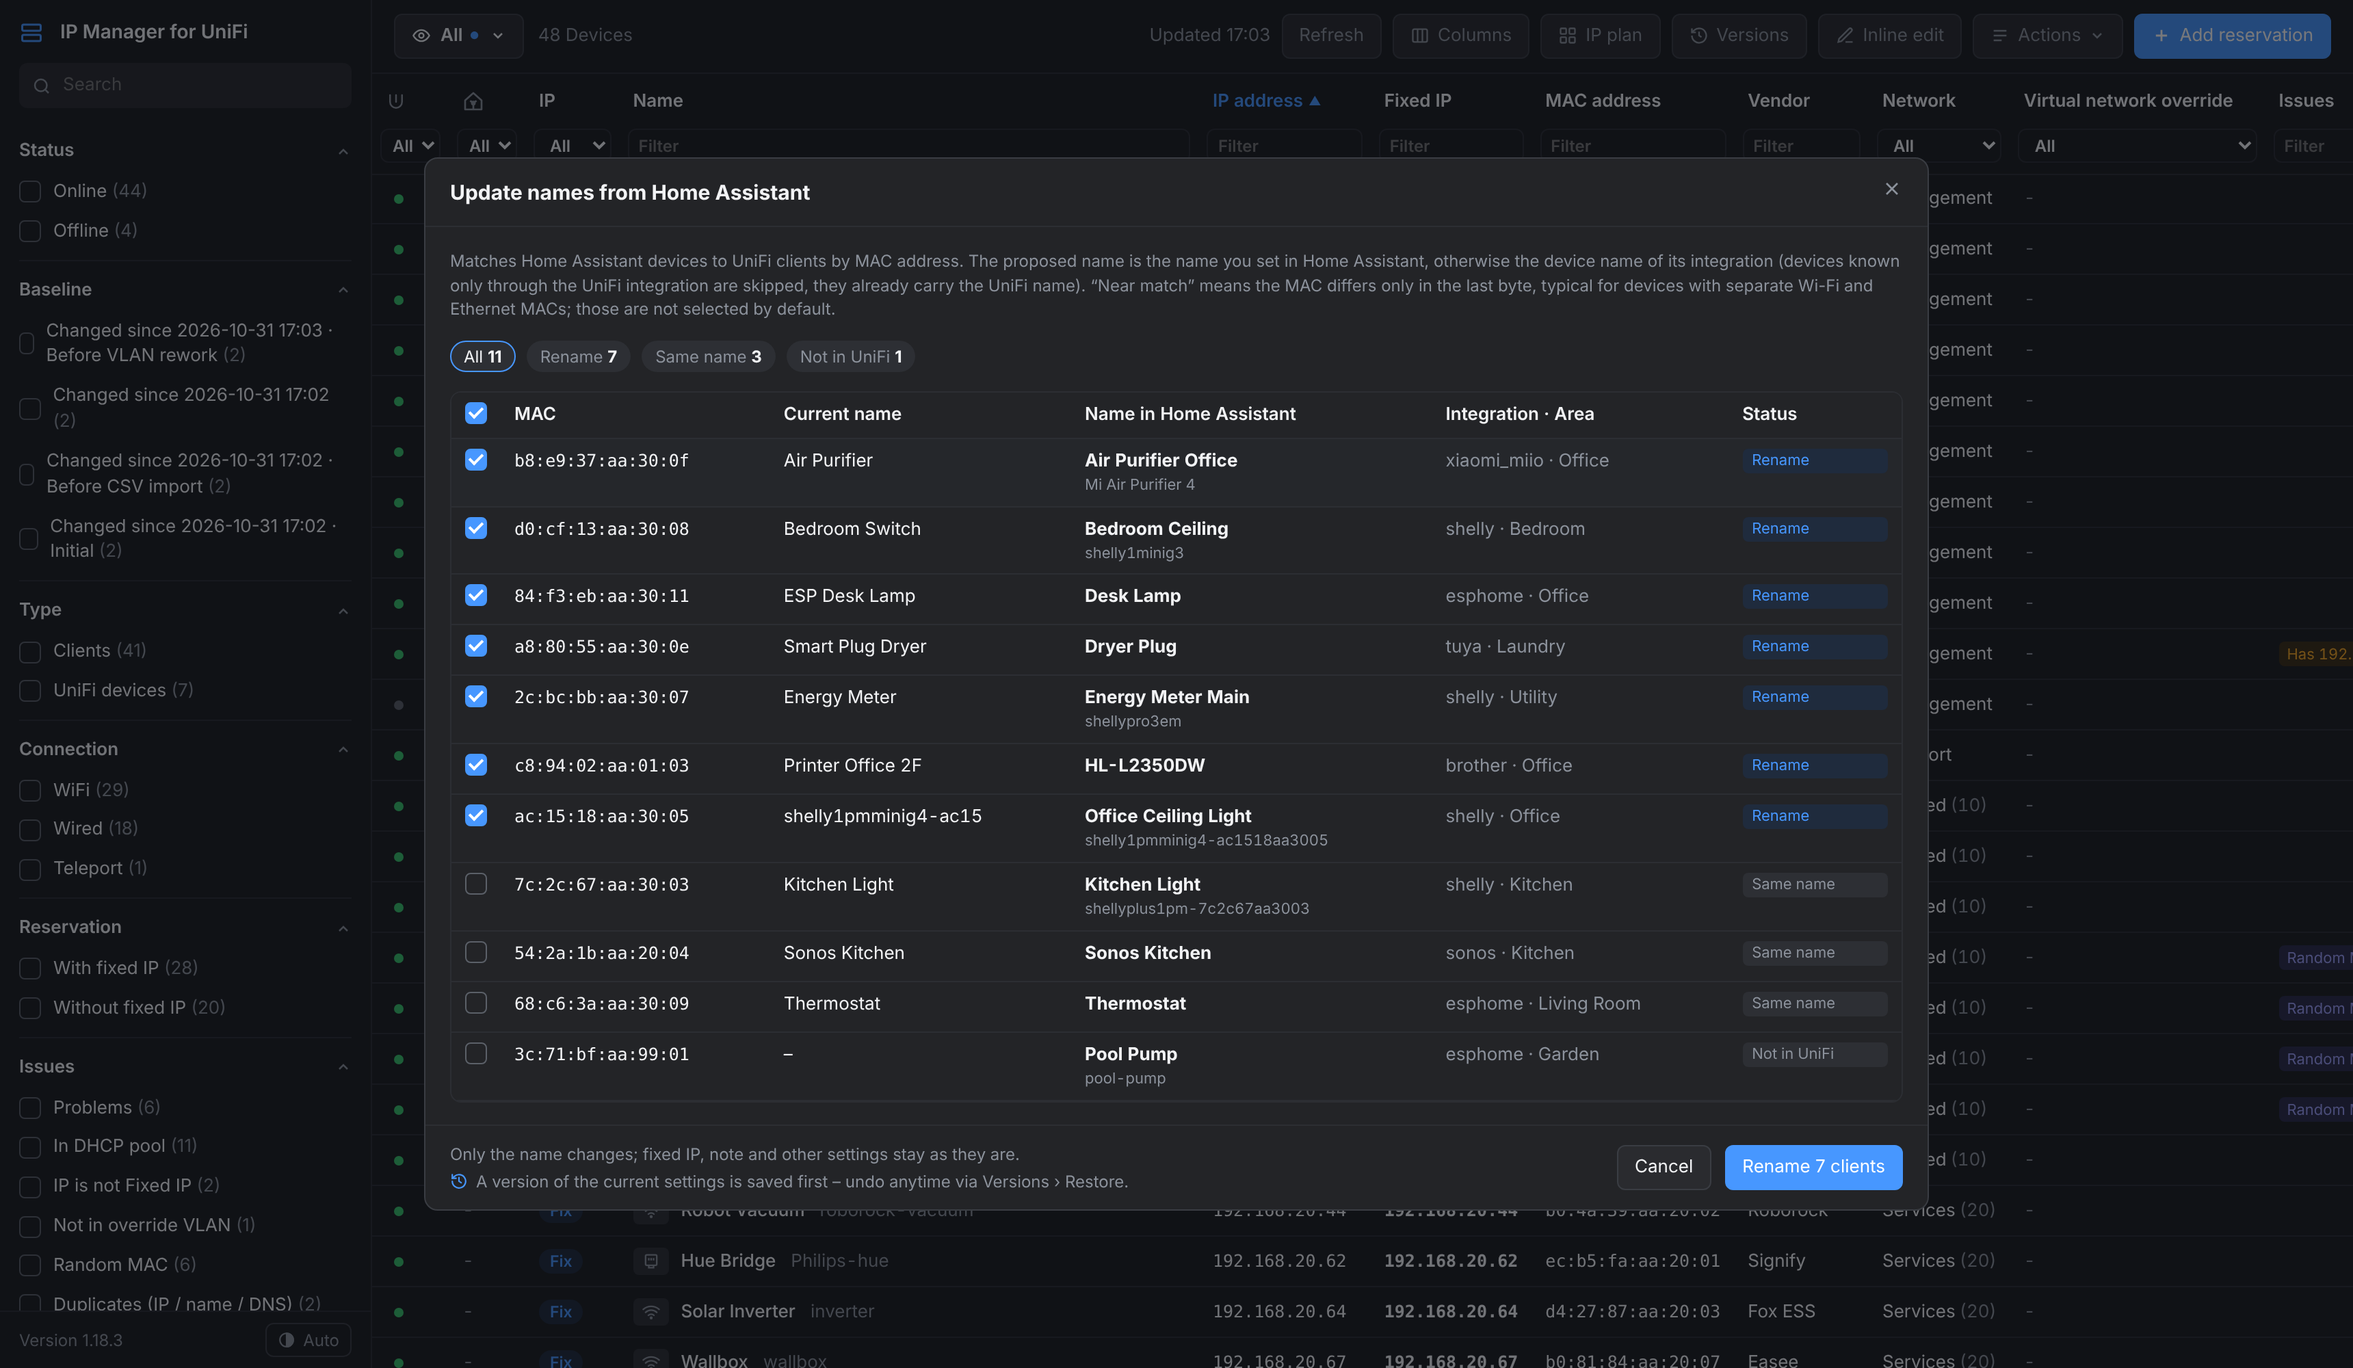
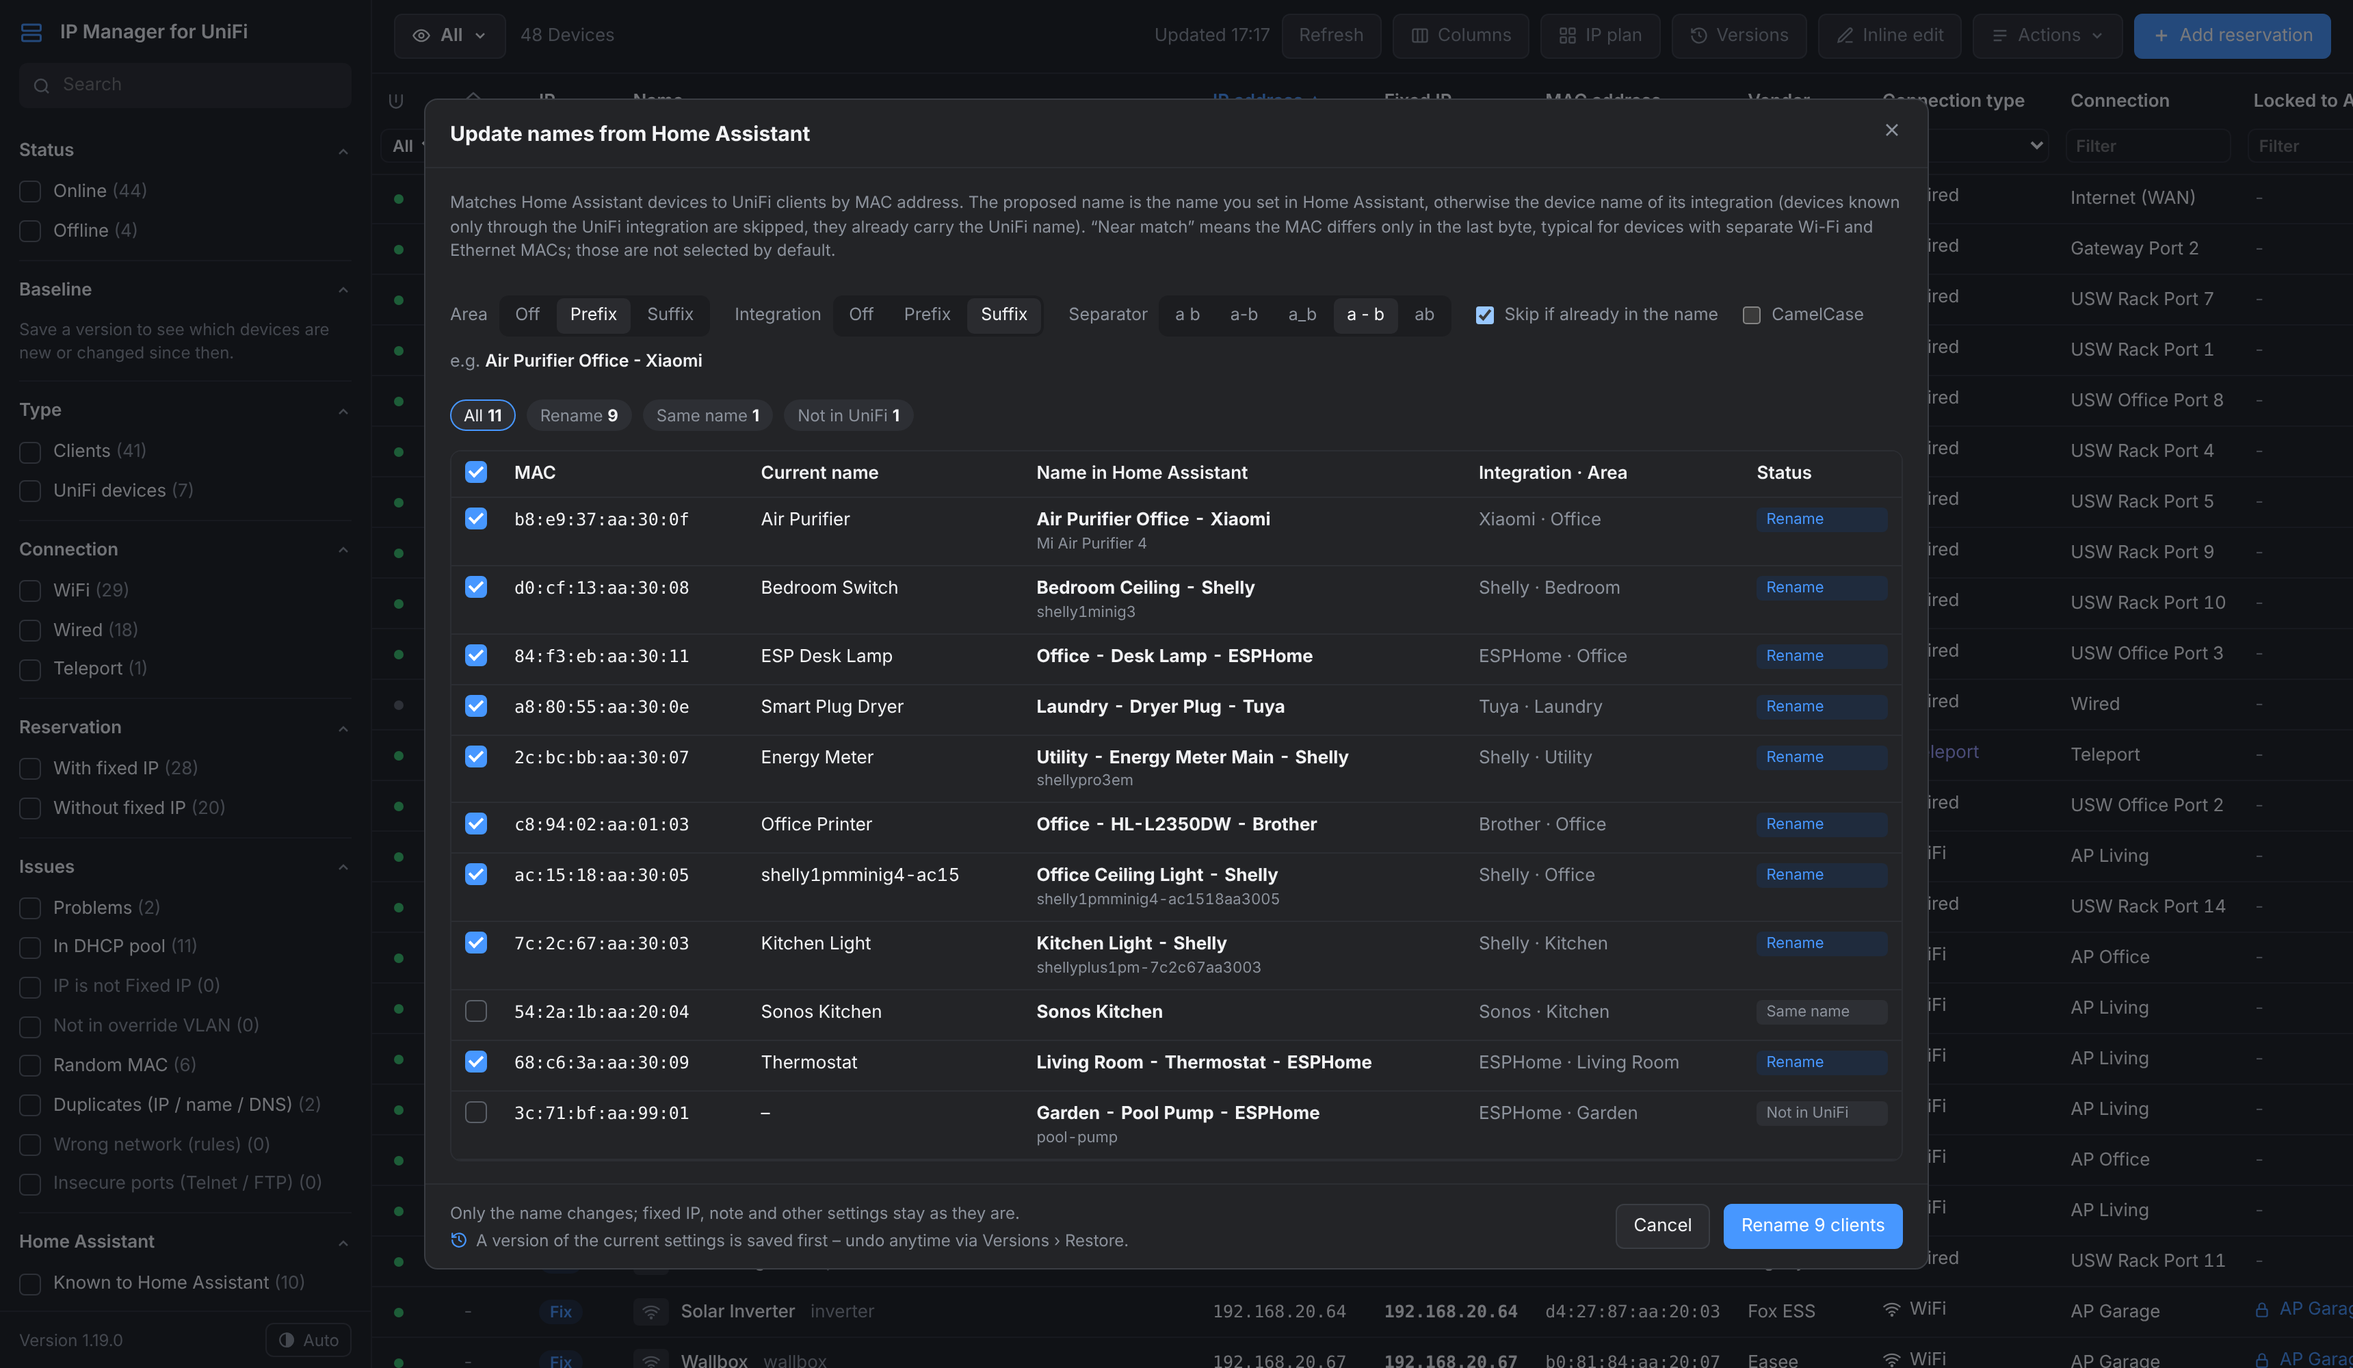
1.19.0: names from Home Assistant with area / integration as prefix or suffix
Claude-Session: https://claude.ai/code/session_01Qq55cKasRq5dm39rxnrsJV

diff --git a/dhcp_reservations/app/static/index.html b/dhcp_reservations/app/static/index.html
@@ -108,6 +108,11 @@ td:first-child,th:first-child{padding-left:max(16px,env(safe-area-inset-left))}
 .resip{font-family:var(--mono);font-size:12.5px;font-weight:600}
 .resip.mism{color:var(--warn)}
 .vno-miss{color:var(--warn);font-weight:600}
+.ha-opts{display:flex;flex-wrap:wrap;align-items:center;gap:10px 18px;margin:10px 0 4px}
+.ha-opts label{display:inline-flex;align-items:center;gap:8px;color:var(--muted);font-size:12.5px}
+.ha-opts .seg{background:var(--bg)}
+.ha-opts .ha-ex{font-size:12.5px}
+.ha-opts .ha-ex b{color:var(--fg);font-weight:600}
 .vl{color:var(--muted);margin-left:3px}
 .tag{display:inline-block;font-size:11px;line-height:18px;padding:0 6px;border-radius:4px;margin-right:4px}
 .tag.bad{background:var(--bad-bg);color:var(--bad)}
@@ -576,6 +581,7 @@ body.side-off .menu-btn{display:inline-flex}
     <div class="imp-head"><h2 id="haTitle">Update names from Home Assistant</h2><button class="x link" type="button" id="haClose" aria-label="Close" style="color:var(--muted)"><svg width="16" height="16" viewBox="0 0 24 24" fill="none" stroke="currentColor" stroke-width="2"><path d="M6 6l12 12M18 6 6 18"/></svg></button></div>
     <div class="imp-body">
       <div class="imp-help">Matches Home Assistant devices to UniFi clients by MAC address. The proposed name is the name you set in Home Assistant, otherwise the device name of its integration (devices known only through the UniFi integration are skipped, they already carry the UniFi name). “Near match” means the MAC differs only in the last byte, typical for devices with separate Wi-Fi and Ethernet MACs; those are not selected by default.</div>
+      <div class="ha-opts" id="haOpts"></div>
       <div class="err" id="haErr" hidden></div>
       <div class="sumrow" id="haSum"></div>
       <div class="imp-table"><table><thead><tr><th style="width:34px"><label class="opt" title="Select all"><input type="checkbox" id="haAll" aria-label="Select all"></label></th><th data-sk="mac">MAC</th><th data-sk="cur">Current name</th><th data-sk="ha">Name in Home Assistant</th><th data-sk="int">Integration · Area</th><th data-sk="status">Status</th></tr></thead><tbody id="haRows"></tbody></table></div>
@@ -2155,23 +2161,63 @@ $("#btnInline").setAttribute("aria-pressed", String(state.inline)); document.bod
 
 // ---------- names from Home Assistant ----------
 const HAN = { rows: [], filter: "rename", running: false, done: false, missing: 0 };
+// naming: add area and/or integration as prefix or suffix (remembered per browser)
+const HA_OPTS = Object.assign({ area: "off", integ: "off", sep: " ", dedup: true, camel: false }, store.get("haNameOpts", {}));
+const HA_DOM_NAMES = { esphome: "ESPHome", shelly: "Shelly", unifiprotect: "UniFi Protect", unifi: "UniFi", hue: "Hue", zha: "ZHA", mqtt: "MQTT", tuya: "Tuya", sonos: "Sonos", xiaomi_miio: "Xiaomi", tasmota: "Tasmota", wled: "WLED", homekit_controller: "HomeKit", matter: "Matter", mobile_app: "Mobile App", brother: "Brother", nuki: "Nuki", tplink: "TP-Link", synology_dsm: "Synology", dlna_dmr: "DLNA", smartthings: "SmartThings", cast: "Google Cast", apple_tv: "Apple TV", samsungtv: "Samsung TV", fritz: "FRITZ!Box", deconz: "deCONZ", zwave_js: "Z-Wave", solarman: "Solarman", nut: "NUT" };
+const domTitle = d => HA_DOM_NAMES[d] || d.replace(/_/g, " ").replace(/\b\w/g, x => x.toUpperCase());
+function haCompose(h) {
+  // dedup: a part already contained in the name (ignoring case, spaces, - and _) is not added again
+  const flat = t => String(t || "").toLowerCase().replace(/[\s_-]+/g, "");
+  const base = h.base, has = t => HA_OPTS.dedup && t && flat(base).includes(flat(t));
+  const area = HA_OPTS.area !== "off" && h.d.area && !has(h.d.area) ? h.d.area : "";
+  const dom = h.d.domains.find(x => x !== "unifi") || h.d.domains[0] || "";
+  const integ = HA_OPTS.integ !== "off" && dom && !has(domTitle(dom)) ? domTitle(dom) : "";
+  const pre = [HA_OPTS.area === "prefix" && area, HA_OPTS.integ === "prefix" && integ].filter(Boolean);
+  const suf = [HA_OPTS.area === "suffix" && area, HA_OPTS.integ === "suffix" && integ].filter(Boolean);
+  const parts = [...pre, base, ...suf];
+  // CamelCase: every word starts upper case and continues lower case; all words are joined with the separator
+  if (HA_OPTS.camel) return parts.flatMap(x => x.split(/[\s_-]+/)).filter(Boolean).map(w => w[0].toUpperCase() + w.slice(1).toLowerCase()).join(HA_OPTS.sep);
+  return parts.join(HA_OPTS.sep);
+}
+function haRestatus() {
+  for (const r of HAN.rows) {
+    if (!["rename", "same", "near", "missing"].includes(r.status)) continue;
+    r.h.proposed = haCompose(r.h);
+    const st = !r.c ? "missing" : (r.c.name || "") === r.h.proposed ? "same" : r.match === "near" ? "near" : "rename";
+    if (st !== r.status) { r.status = st; r.sel = st === "rename"; }
+  }
+}
+function renderHaOpts() {
+  const seg = (k, opts) => `<span class="seg" role="group">${opts.map(([v, t]) => `<button type="button" data-ho="${k}" data-v="${esc(v)}" aria-pressed="${HA_OPTS[k] === v}">${t}</button>`).join("")}</span>`;
+  const pos = [["off", "Off"], ["prefix", "Prefix"], ["suffix", "Suffix"]];
+  const ex = HAN.rows.find(r => r.c && r.h.d.area) || HAN.rows[0];
+  $("#haOpts").innerHTML = `<label>Area ${seg("area", pos)}</label><label>Integration ${seg("integ", pos)}</label>
+    <label>Separator ${seg("sep", [[" ", "a b"], ["-", "a-b"], ["_", "a_b"], [" - ", "a - b"], ["", "ab"]])}</label>
+    <label class="rc-opt" title="Do not add the area or integration when the name already contains it (e.g. shellyLEDmatrix + Shelly)"><input type="checkbox" data-hc="dedup" ${HA_OPTS.dedup ? "checked" : ""}><span>Skip if already in the name</span></label>
+    <label class="rc-opt" title="Every word starts upper case and continues lower case, e.g. OfficeDeskLamp with separator ab"><input type="checkbox" data-hc="camel" ${HA_OPTS.camel ? "checked" : ""}><span>CamelCase</span></label>
+    ${ex ? `<span class="muted ha-ex">e.g. <b>${esc(haCompose(ex.h))}</b></span>` : ""}`;
+  const busy = HAN.running || HAN.done;
+  for (const cb of $("#haOpts").querySelectorAll("[data-hc]")) { cb.disabled = busy; cb.addEventListener("change", () => { HA_OPTS[cb.dataset.hc] = cb.checked; store.set("haNameOpts", HA_OPTS); haRestatus(); renderHa(); }); }
+  for (const b of $("#haOpts").querySelectorAll("[data-ho]")) { b.disabled = busy; b.addEventListener("click", () => { HA_OPTS[b.dataset.ho] = b.dataset.v; store.set("haNameOpts", HA_OPTS); haRestatus(); renderHa(); }); }
+}
 const macBytes = m => (m || "").toLowerCase().split(":");
 function buildHaRows(devs) {
   const byMac = {};
   for (const d of devs) {
     const viaUnifiOnly = d.domains.length && d.domains.every(x => x === "unifi");
     const proposed = d.name_by_user || (viaUnifiOnly ? "" : d.name);
-    if (!proposed) continue;
+    if (!proposed) continue; // base name; haCompose() adds area / integration
     for (const m of d.macs) {
       const prev = byMac[m];
       const score = (d.name_by_user ? 2 : 0) + (viaUnifiOnly ? 0 : 1);
-      if (!prev || score > prev.score) byMac[m] = { d, proposed, score };
+      if (!prev || score > prev.score) byMac[m] = { d, base: proposed, proposed, score };
     }
   }
   const clientsByMac = Object.fromEntries(state.clients.filter(c => c.mac).map(c => [c.mac, c]));
   const used = new Set(Object.keys(byMac).filter(m => clientsByMac[m]));
   const rows = [];
   for (const [m, h] of Object.entries(byMac)) {
+    h.proposed = haCompose(h);
     let c = clientsByMac[m], match = "exact";
     if (!c) {
       const [a, b, cc, dd, ee, ff] = macBytes(m);
@@ -2185,6 +2231,7 @@ function buildHaRows(devs) {
   return rows.sort((x, y) => ({ rename: 0, near: 1, same: 2, missing: 3 }[x.status] - { rename: 0, near: 1, same: 2, missing: 3 }[y.status]) || (x.h.proposed).localeCompare(y.h.proposed, "en"));
 }
 function renderHa() {
+  renderHaOpts();
   const rows = HAN.rows, cnt = k => rows.filter(r => r.status === k).length;
   const pills = [["all", "All", rows.length], ["rename", "Rename", cnt("rename")], ["near", "Near match", cnt("near")], ["same", "Same name", cnt("same")], ["missing", "Not in UniFi", cnt("missing")]];
   if (HAN.done) pills.push(["ok", "Renamed", cnt("ok")], ["fail", "Failed", cnt("fail")]);
@@ -2199,8 +2246,8 @@ function renderHa() {
   $("#haRows").innerHTML = list.map(r => `<tr><td><label class="opt"><input type="checkbox" data-hi="${rows.indexOf(r)}" ${r.sel ? "checked" : ""} ${selectable(r) ? "" : "disabled"} aria-label="Rename ${esc(r.h.proposed)}"></label></td>
     <td class="mono">${esc(r.c ? r.c.mac : r.haMac)}${r.match === "near" ? `<div class="muted" style="font-size:11px">HA: ${esc(r.haMac)}</div>` : ""}</td>
     <td>${r.c ? esc(r.c.name || "") || `<span class="muted">${esc(r.c.hostname || "(no name)")}</span>` : "–"}</td>
-    <td><b>${esc(r.h.proposed)}</b>${r.h.d.name_by_user && r.h.d.name !== r.h.proposed ? `<div class="muted" style="font-size:11px">${esc(r.h.d.name)}</div>` : ""}</td>
-    <td class="muted">${esc(r.h.d.domains.join(", "))}${r.h.d.area ? ` · ${esc(r.h.d.area)}` : ""}</td>
+    <td><b>${esc(r.h.proposed)}</b>${r.h.d.name_by_user && r.h.d.name !== r.h.base ? `<div class="muted" style="font-size:11px">${esc(r.h.d.name)}</div>` : ""}</td>
+    <td class="muted">${esc(r.h.d.domains.map(domTitle).join(", "))}${r.h.d.area ? ` · ${esc(r.h.d.area)}` : ""}</td>
     <td><div class="chg-list">${ST[r.status]}${r.result ? `<span class="msg">${esc(r.result)}</span>` : ""}</div></td></tr>`).join("") || `<tr><td colspan="6" class="muted">No rows in this view.</td></tr>`;
   for (const cb of $("#haRows").querySelectorAll("input[data-hi]")) cb.addEventListener("change", () => { rows[+cb.dataset.hi].sel = cb.checked; renderHaFoot(); syncHaAll(); });
   syncHaAll(); renderHaFoot();

diff --git a/README.md b/README.md
@@ -39,7 +39,7 @@ versions you can compare and restore.
 |---|---|
 | **Integration icon & status** | Devices known to Home Assistant (matched by MAC) show the logo of their integration and their HA status – OK, partly unavailable, unavailable, integration error, disabled – as a column, a filter and in the detail panel. For a partly unavailable device the unavailable entities are listed. |
 | **Home Assistant link** | *Open in HA ↗* opens the device page in Home Assistant in a new tab. |
-| **Names from Home Assistant** | Proposes the names from the HA device registry for your UniFi clients – including a “near match” for devices with separate WiFi/Ethernet MACs. Preview, pick, apply. |
+| **Names from Home Assistant** | Proposes the names from the HA device registry for your UniFi clients – optionally with the **area** and/or the **integration** as prefix or suffix (e.g. *Office Desk Lamp*, *Desk Lamp - ESPHome*), since the UniFi app shows neither. Includes a “near match” for devices with separate WiFi/Ethernet MACs. Preview, pick, apply. |
 | **New-device alerts** | A Home Assistant notification and the event `clients_reservations_new_device` when a never-seen MAC appears – optionally only for certain networks. |
 | **HA in the IP plan** | The IP plan can show the integration logos, and the CleanUp Proposal can group fixed IPs **by HA integration** (all Shelly, then all ESPHome, …). |
 | **HA status in versions** | Every version records the HA status, so *Compare* and the device history show e.g. “OK → Unavailable”. |
@@ -94,7 +94,7 @@ versions you can compare and restore.
     <td colspan="2" valign="top"><img src="docs/screenshots/home-assistant.png" alt="Home Assistant integration icon and status"><br><b>Integration icon & status</b> – column, filter and the <i>Home Assistant</i> section in the detail panel with <i>Open in HA ↗</i> and the unavailable entities.</td>
   </tr>
   <tr>
-    <td width="50%" valign="top"><img src="docs/screenshots/names-from-ha.png" alt="Names from Home Assistant"><br><b>Names from Home Assistant</b> – rename UniFi clients after your HA device names.</td>
+    <td width="50%" valign="top"><img src="docs/screenshots/names-from-ha.png" alt="Names from Home Assistant"><br><b>Names from Home Assistant</b> – rename UniFi clients after your HA device names, with area / integration as prefix or suffix.</td>
     <td width="50%" valign="top"><img src="docs/screenshots/cleanup-proposal.png" alt="CleanUp Proposal grouped by HA integration"><br><b>CleanUp Proposal grouped by HA integration</b> – <i>Changes</i> tab with every move as an arrow.</td>
   </tr>
 </table>

diff --git a/dhcp_reservations/DOCS.md b/dhcp_reservations/DOCS.md
@@ -32,6 +32,9 @@ UniFi Network › Client Devices. Every column can be sorted (click the header) 
 - **Names from HA:** reads the Home Assistant device registry (devices with a MAC connection) and proposes the name you gave the
   device in Home Assistant, otherwise the integration's device name. Devices known only via the UniFi integration are skipped.
   Preview with checkbox per row; “near match” covers devices whose MAC differs only in the last byte (separate Wi-Fi/Ethernet MAC).
+  *Area* and *Integration* can each be added as prefix or suffix (*Off / Prefix / Suffix*), with the separator `a b`, `a-b`, `a_b`, `a - b` or none –
+  e.g. *Office Desk Lamp* or *Desk Lamp - ESPHome*. *Skip if already in the name* (default on) leaves out parts the name already contains;
+  *CamelCase* starts every word upper case and continues lower case (*OfficeDeskLamp*). The choice is remembered per browser.
 - **Views:** like SharePoint views. A view stores the visible columns, their order, column filters, sidebar filters and sort.
   Built-in: *All* and *DHCP Reservations* (MAC, Name, Fixed IP, IP, Last seen – clients with a fixed IP). Use the view menu to
   save changes, save as a new view, rename, delete, discard changes or set the default view. Views are stored in the

diff --git a/dhcp_reservations/CHANGELOG.md b/dhcp_reservations/CHANGELOG.md
@@ -1,5 +1,9 @@
 # Changelog
 
+## 1.19.0 – 2026-10-31
+- **Names from Home Assistant** can add the **area** and/or the **integration** to the name – each *Off / Prefix / Suffix* – with a separator of your choice (`a b`, `a-b`, `a_b`, `a - b` or none), e.g. *Office Desk Lamp* or *Desk Lamp - ESPHome*. The proposed names, the *Rename / Same name* counts and an example update live; *Skip if already in the name* (on by default) does not add a part the name already contains – e.g. *shellyLEDmatrix* gets no *Shelly*. *CamelCase* starts every word upper case and continues lower case (e.g. *OfficeDeskLamp* with no separator). The setting is remembered per browser.
+- Integrations are shown with their readable name (ESPHome, Shelly, UniFi Protect …).
+
 ## 1.18.3 – 2026-10-31
 - *Not in override VLAN* now also lists offline devices whose last known network differs from their virtual network override (info *Last seen outside <network> (override)*; online devices keep the warning).
 
